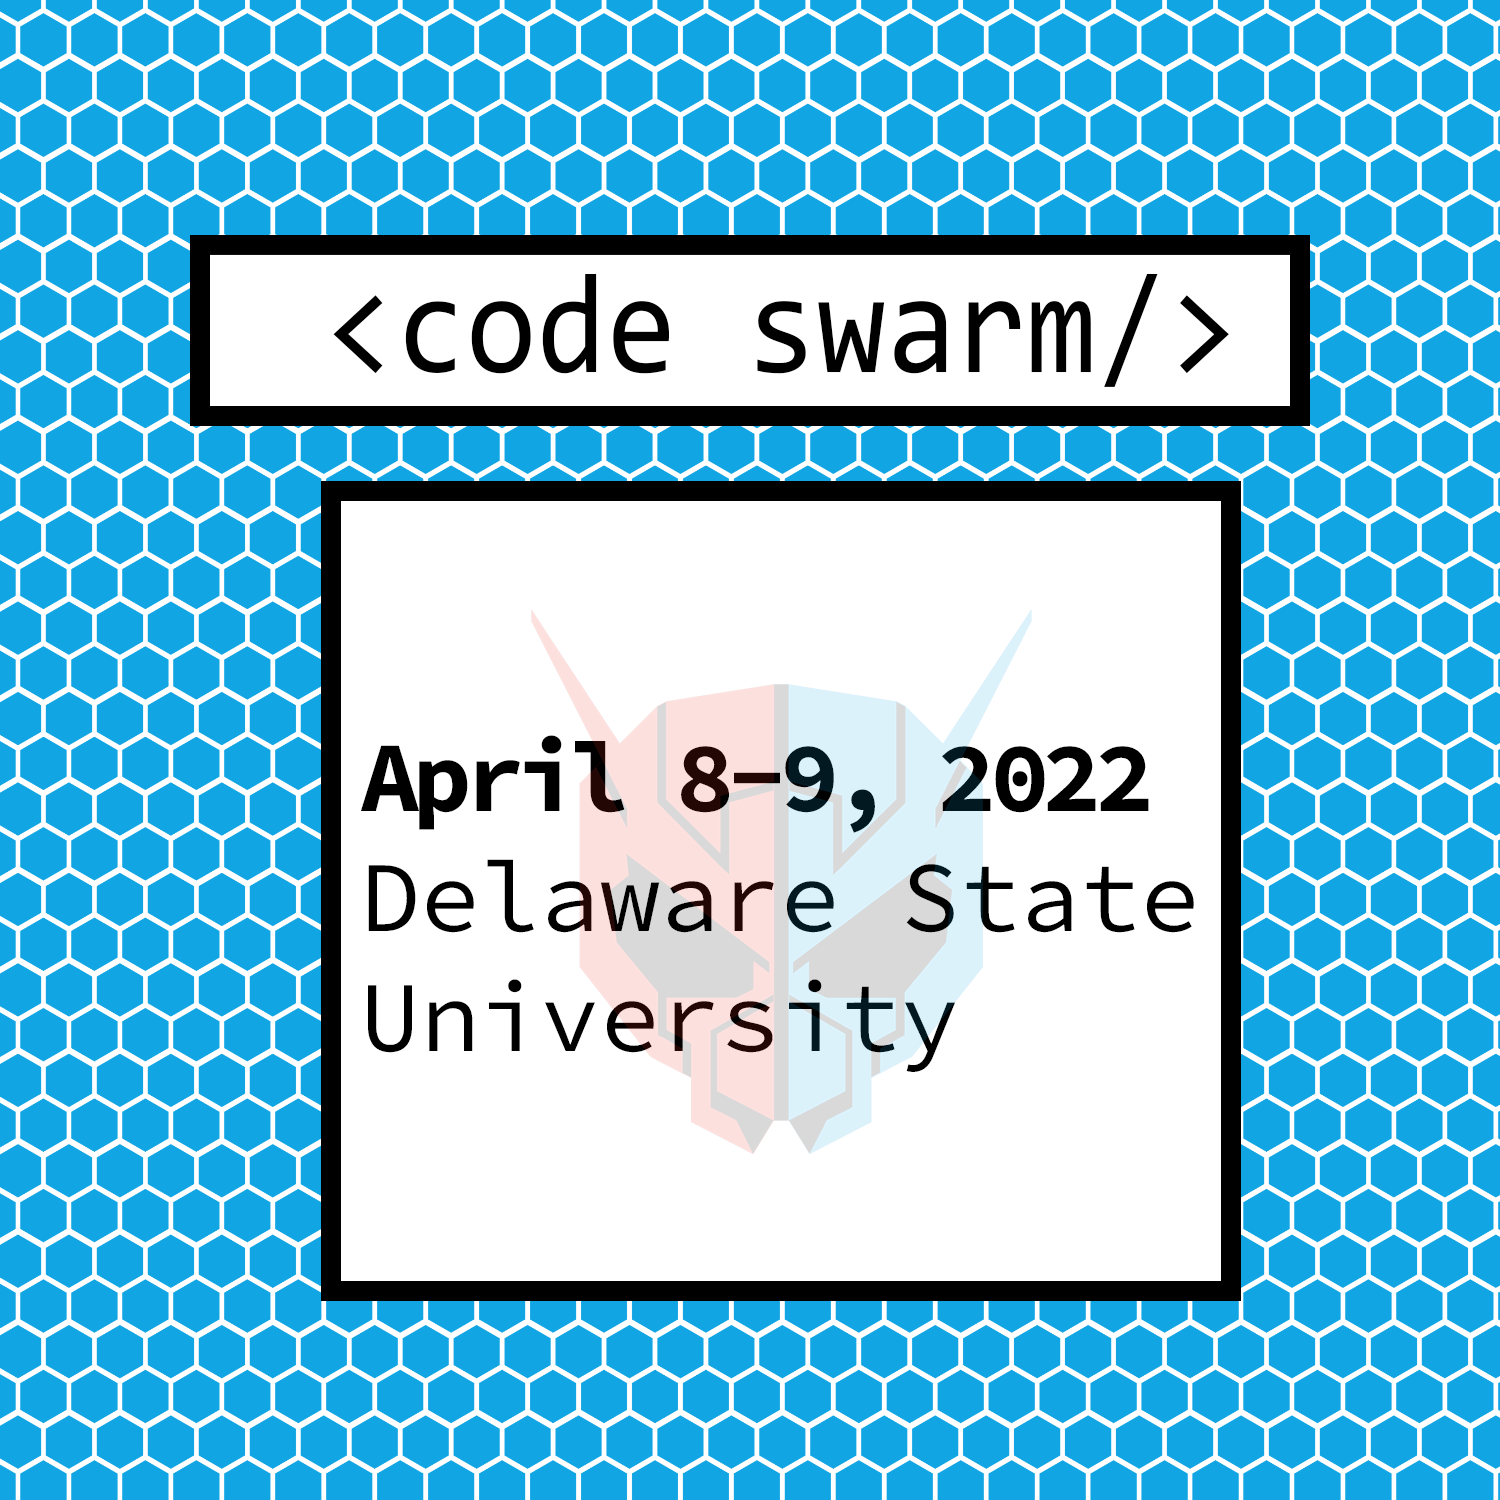
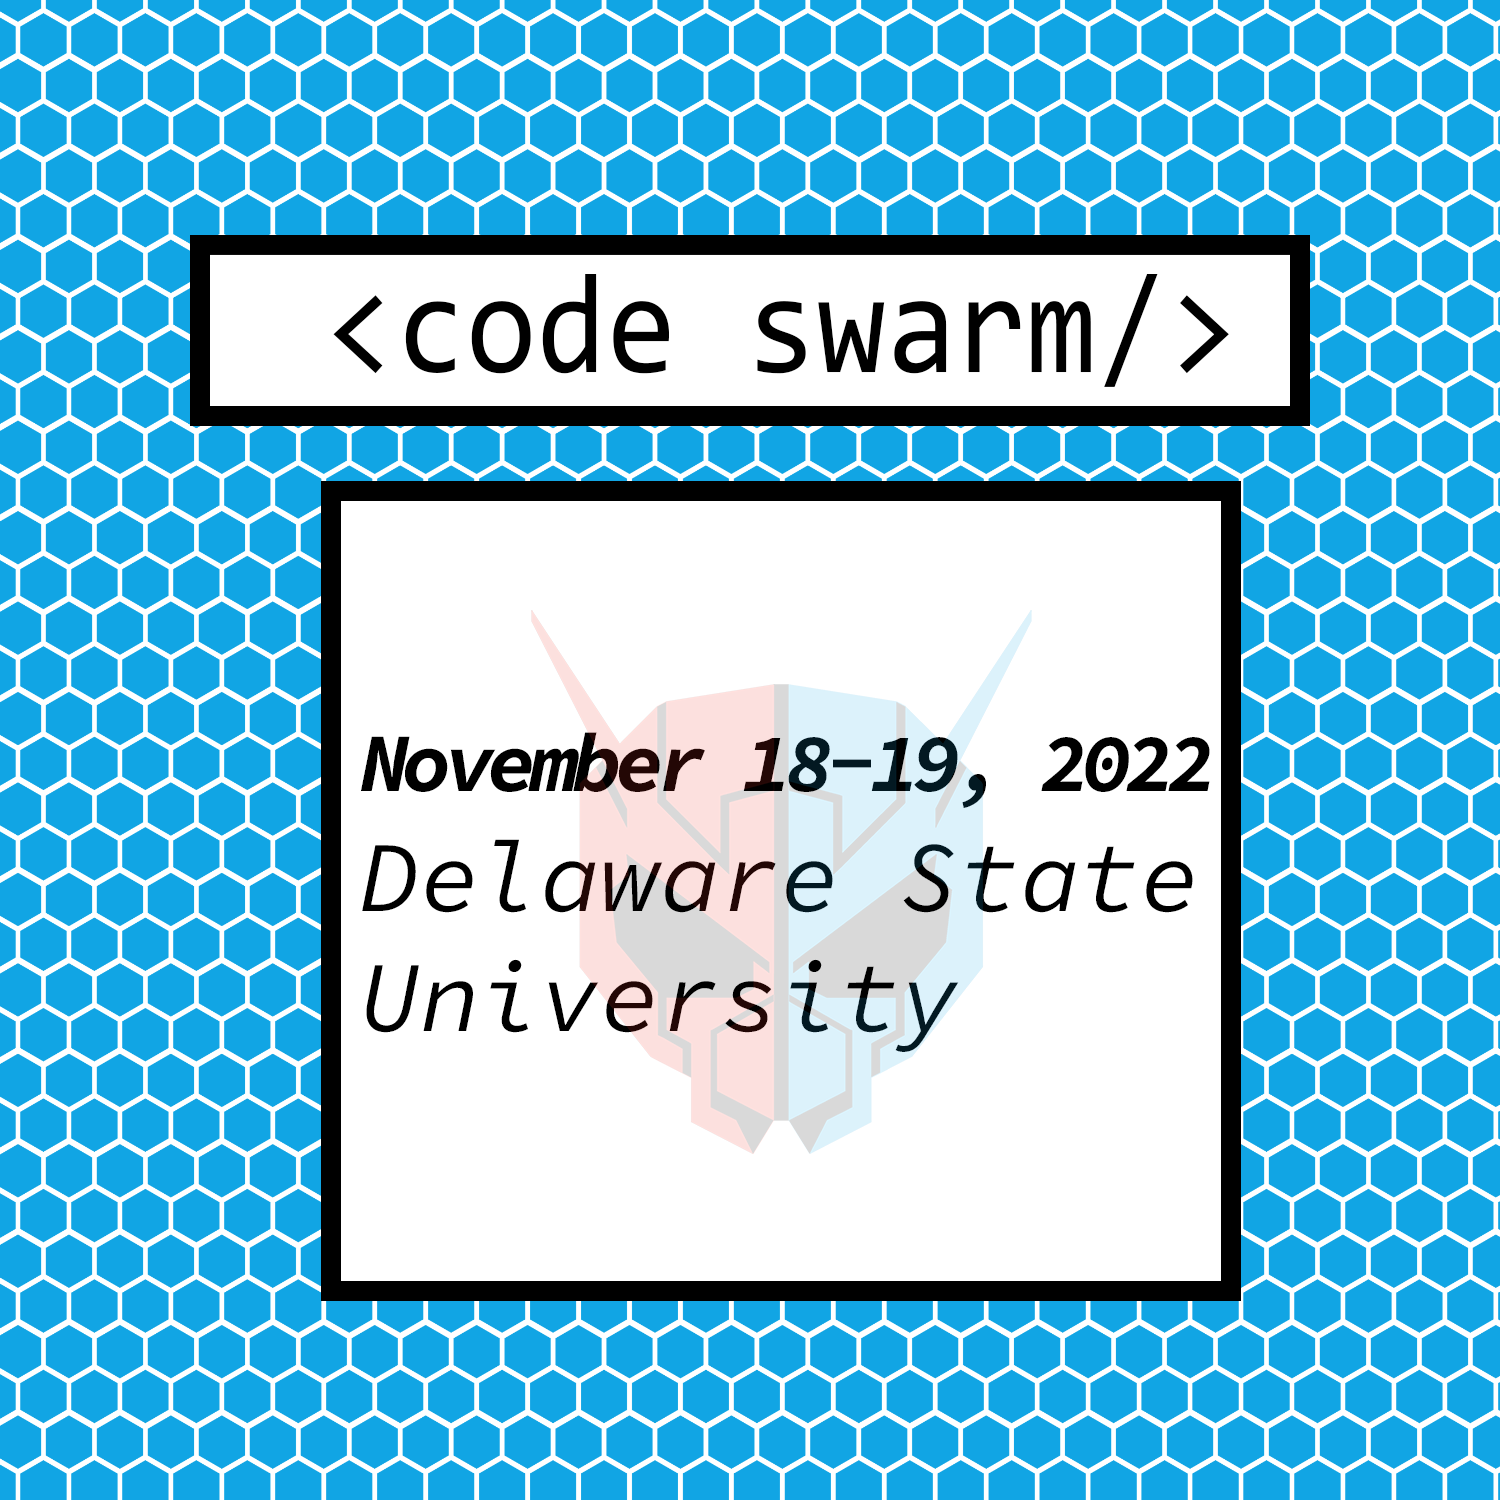
Updated hackathon details & board infromation to reflect the delay

Changed region(s): [[0.2453, 0.4907, 0.828, 0.7053]]

diff --git a/index.html b/index.html
@@ -46,7 +46,7 @@
           <li><a href="#prizes">Prizes</a></li>
           <li><a href="#faq">FAQ</a></li>
           <li><a href="#team">Team</a></li>
-          <li class="lastli"><a href="register.html">Register</a></li>
+          <li class="lastli"><a href="https://docs.google.com/forms/d/e/1FAIpQLScOSRnIKjcIT181QyWprITqumYfgVsRWw31f9yPOLiqxfDtkg/viewform?usp=sf_link" target="_blank" rel="noopener noreferrer">Register</a></li>
         </ul>
       </nav>
       <nav id="reg">
@@ -105,7 +105,7 @@
                 type="button"
                 role="tab"
               >
-                <p>Friday April 8, 2022</p>
+                <p>Friday November 18, 2022</p>
               </button>
             </li>
             <li class="nav-item schedule-pill" role="presentation">
@@ -117,7 +117,7 @@
                 type="button"
                 role="tab"
               >
-                <p>Saturday April 9, 2022</p>
+                <p>Saturday November 19, 2022</p>
               </button>
             </li>
           </ul>
@@ -139,20 +139,36 @@
                       <td>5:00pm</td>
                     </tr>
                     <tr>
+                      <td>Team Formation</td>
+                      <td>5:30pm</td>
+                    </tr>
+                    <tr>
                       <td>Hackathon Begins!</td>
                       <td>5:30pm</td>
                     </tr>
                     <tr>
-                      <td>Snack</td>
+                      <td>Dinner</td>
                       <td>7:00pm</td>
                     </tr>
                     <tr>
-                      <td>Dinner</td>
-                      <td>8:00pm</td>
+                      <td>Capital One React Workshop</td>
+                      <td>7:45pm</td>
+                    </tr>
+                    <tr>
+                      <td>Alumni Sponsored Wokrshop</td>
+                      <td>9:15pm</td>
+                    </tr>
+                    <tr>
+                      <td>iOS App Development Wokrshop</td>
+                      <td>10:45pm</td>
+                    </tr>
+                    <tr>
+                      <td>Midnight Snack</td>
+                      <td>12:30am</td>
                     </tr>
                     <tr>
                       <td colspan="2" class="small">
-                        Workshops will take place throughout the event
+                        Workshops are each 75 minutes in duration.
                       </td>
                     </tr>
                   </tbody>
@@ -164,8 +180,20 @@
                 <table>
                   <tbody>
                     <tr>
+                      <td>Trivia</td>
+                      <td>1:00am</td>
+                    </tr>
+                    <tr>
+                      <td>Scavenger Hunt</td>
+                      <td>3:00am</td>
+                    </tr>
+                    <tr>
                       <td>Breakfast</td>
-                      <td>9:00am</td>
+                      <td>8:00am</td>
+                    </tr>
+                    <tr>
+                      <td>TBD Event</td>
+                      <td>10:00am</td>
                     </tr>
                     <tr>
                       <td>Pre-Evaluations</td>
@@ -173,7 +201,7 @@
                     </tr>
                     <tr>
                       <td>Lunch</td>
-                      <td>12:00pm</td>
+                      <td>12:30pm</td>
                     </tr>
                     <tr>
                       <td>Hacking Ends</td>
@@ -181,11 +209,11 @@
                     </tr>
                     <tr>
                       <td>Judging Begins</td>
-                      <td>3:30pm</td>
+                      <td>4:00pm</td>
                     </tr>
                     <tr>
                       <td colspan="2" class="small">
-                        Workshops will take place throughout the event
+                        Workshops are each 75 minutes in duration.
                       </td>
                     </tr>
                   </tbody>
@@ -205,6 +233,8 @@
               <a
                 href="https://www.amazon.jobs/en/business_categories/student-programs"
                 style="text-decoration: none; border: 0"
+                target="_blank"
+                rel="noopener noreferrer"
               >
                 <div class="sponsor">
                   <img src="images/amazon.png" class="card-img" />
@@ -215,6 +245,8 @@
               <a
                 href="https://www.capitalonecareers.com/campus"
                 style="text-decoration: none; border: 0"
+                target="_blank"
+                rel="noopener noreferrer"
               >
                 <div class="sponsor">
                   <img src="images/capital-one.png" class="card-img" />
@@ -460,43 +492,56 @@
           </header>
           <ul class="features">
             <li>
-              <a href="https://www.linkedin.com/in/jameel-brice/">
-                <div class="profile">
-                  <span class="image"
-                    ><img src="images/profiles/jameel.png" alt=""
-                  /></span>
-                  <h3>Jameel Brice</h3>
-                  <p>Computer Science Club<br />President</p>
-                </div>
-              </a>
-            </li>
-            <li>
-              <a href="https://www.linkedin.com/in/kassandratchemi/">
-                <div class="profile">
-                  <span class="image"
-                    ><img src="images/profiles/kassandra.png"
-                  /></span>
-                  <h3>Kassandra Tchemi</h3>
-                  <p>Computer Science Club<br />Vice President</p>
-                </div>
-              </a>
-            </li>
-            <li>
               <a
                 href="https://www.linkedin.com/in/prentice-williams-451687156/"
+                target="_blank"
+                rel="noopener noreferrer"
               >
                 <div class="profile">
                   <span class="image"
                     ><img src="images/profiles/prentice.png"
                   /></span>
                   <h3>Prentice Williams</h3>
+                  <p>Computer Science Club<br />President</p>
+                </div>
+              </a>
+            </li>
+            <li>
+              <a
+                href="https://www.linkedin.com/in/kyle-gavin-35770a19a/"
+                target="_blank" 
+                rel="noopener noreferrer"
+            >
+                <div class="profile">
+                  <span class="image"
+                    ><img src="images/profiles/clown.png"
+                  /></span>
+                  <h3>Kyle Gavin</h3>
+                  <p>Computer Science Club<br />Vice President</p>
+                </div>
+              </a>
+            </li>
+            <li>
+              <a 
+                href="https://www.linkedin.com/in/"
+                target="_blank" 
+                rel="noopener noreferrer"
+              >
+                <div class="profile">
+                  <span class="image"
+                    ><img src="images/profiles/syera.png"
+                  /></span>
+                  <h3>Syera Ryan</h3>
                   <p>Computer Science Club<br />Treasurer</p>
                 </div>
               </a>
             </li>
-
             <li>
-              <a href="https://www.linkedin.com/in/lillie-hunter-64210b222/">
+              <a
+                href="https://www.linkedin.com/in/lillie-hunter-64210b222/"
+                target="_blank" 
+                rel="noopener noreferrer"
+              >
                 <div class="profile">
                   <span class="image"
                     ><img src="images/profiles/lillie.png"
@@ -509,46 +554,47 @@
           </ul>
           <ul class="features">
             <li>
-              <a href="https://www.linkedin.com/in/giovanebarnes/">
+              <a
+                href="https://www.linkedin.com/in/evan-timko-4008a81a2/"
+                target="_blank" 
+                rel="noopener noreferrer"
+              >
                 <div class="profile">
                   <span class="image"
-                    ><img src="images/profiles/gio.png"
+                    ><img src="images/profiles/evan.png"
                   /></span>
-                  <h3>Giovane Barnes</h3>
-                  <p>Computer Science Club<br />Corresponding Secretary</p>
+                  <h3>Evan Timko</h3>
+                  <p>Computer Science Club<br />Secretary</p>
                 </div>
               </a>
             </li>
             <li>
-              <a href="https://www.linkedin.com/in/zorajohnson/">
+              <a
+                href="https://www.linkedin.com/in/"
+                target="_blank" 
+                rel="noopener noreferrer"
+              >
                 <div class="profile">
                   <span class="image"
-                    ><img src="images/profiles/zora.png"
+                    ><img src="images/profiles/carmen.png"
                   /></span>
-                  <h3>Zora Johnson</h3>
-                  <p>Computer Science Club<br />Recording Secretary</p>
-                </div>
-              </a>
-            </li>
-            <li>
-              <a href="https://www.linkedin.com/in/nguiyim/">
-                <div class="profile">
-                  <span class="image"
-                    ><img src="images/profiles/jess.png"
-                  /></span>
-                  <h3>Jessica Nyguiyim</h3>
+                  <h3>Carmen Wright</h3>
                   <p>Computer Science Club<br />Miss Computer Science</p>
                 </div>
               </a>
             </li>
 
             <li>
-              <a href="https://www.linkedin.com/in/nigel-jennings-337877203/">
+              <a
+                href="https://www.linkedin.com/in/malcolmgarbutt/"
+                target="_blank" 
+                rel="noopener noreferrer"
+              >
                 <div class="profile">
                   <span class="image"
-                    ><img src="images/profiles/nigel.png"
+                    ><img src="images/profiles/malcolm.png"
                   /></span>
-                  <h3>Nigel Jennings</h3>
+                  <h3>Malcolm Garbutt</h3>
                   <p>Computer Science Club<br />Mister Computer Science</p>
                 </div>
               </a>

diff --git a/assets/css/main.css b/assets/css/main.css
@@ -133,6 +133,7 @@ q:after {
 }
 
 table {
+  table-layout: fixed;
   border-collapse: collapse;
   border-spacing: 0;
 }
@@ -2823,6 +2824,7 @@ table tbody tr {
   border: solid 1px;
   border-left: 0;
   border-right: 0;
+  
 }
 
 table td {
@@ -2872,6 +2874,7 @@ table.alt tfoot {
 
 table tbody tr {
   border-color: rgba(255, 255, 255, 0.35);
+  
 }
 
 table tbody tr:nth-child(2n + 1) {
@@ -3722,6 +3725,7 @@ body.is-preload #header.alt .logo {
 
 #main table tbody tr {
   border-color: #dddddd;
+  
 }
 
 #main table tbody tr:nth-child(2n + 1) {
